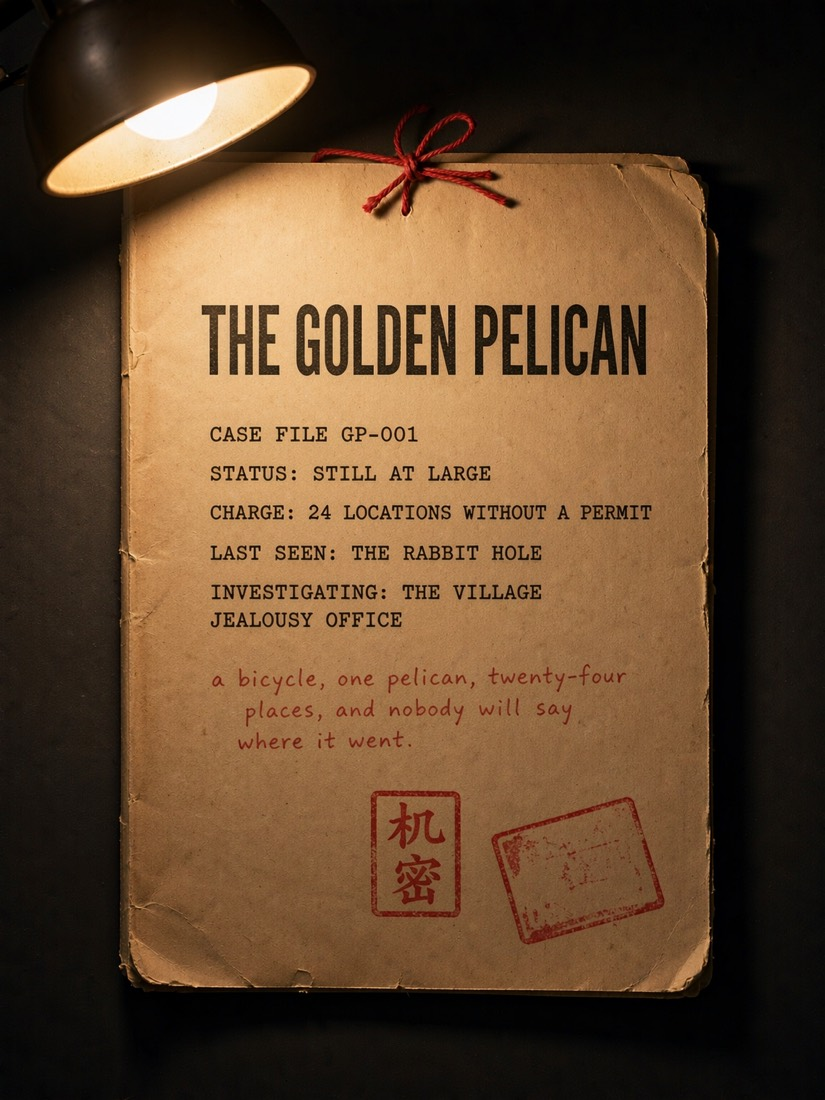
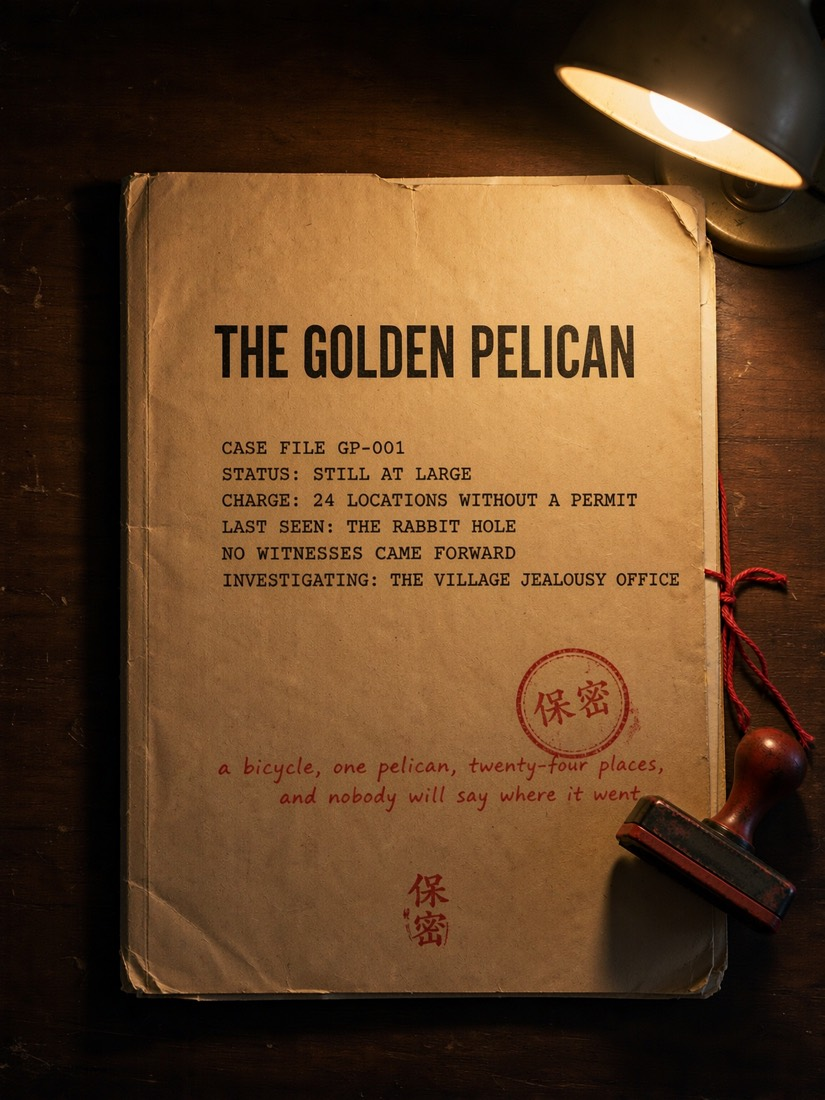
投稿前修完系列最後兩張瑕疵：RA-01、RA-03
決定投 16 張系列當 one set（規則允許「One piece or one set」），
所以把僅有的兩張瑕疵修掉，讓 16/16 全部乾淨。

RA-01：錯字來自「最後目擊」那行。改成 NO WITNESSES CAME FORWARD，
拿掉易錯的那行，現在全對。
RA-03：底部有模型自己加的亂碼行。與其說「不要有其他文字」，
不如明確描述「下方三分之一除了紙張老化與水痕之外是空白的」——
正向描述版面比負向禁止有效。

投稿用 16 張系列，非 A 版單張。Track 1 是 Type & Layout，
16 張的一致性比單張更能證明排版系統能力。

diff --git a/docs/posters/prompts.md b/docs/posters/prompts.md
@@ -48,6 +48,7 @@ CASE FILE GP-001
 STATUS: STILL AT LARGE
 CHARGE: 24 LOCATIONS WITHOUT A PERMIT
 LAST SEEN: THE RABBIT HOLE
+NO WITNESSES CAME FORWARD
 INVESTIGATING: THE VILLAGE JEALOUSY OFFICE
 
 Along the bottom edge, small, as if written by hand in faded red ink:
@@ -164,6 +165,9 @@ CHARGE: 24 LOCATIONS, NO PERMIT
 REWARD: 200 EUROS
 
 Below that, a rubber stamp in faded red, pressed crooked, the ink patchy.
+Below the stamp the paper is blank. There is nothing written under the stamp,
+no second notice, no fine print, no extra lines of any kind. The lower third of
+the poster is empty paper, apart from age and damp.
 
 Bleached, patient, slightly forlorn. The Chinese characters are the only
 non-Latin text in the image. No other text anywhere. No watermark, no logo,
